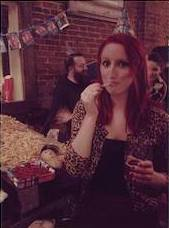
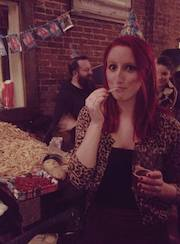
fixed floating text and emily's photo

diff --git a/css/custom.css b/css/custom.css
@@ -66,10 +66,11 @@ h3.project-name {
 }
 
 .member-photo {
-  float: left;
-  margin: 0 20px 10px 0;
+  margin: 0 auto 10px auto;
   padding: 10px;
   background-color: white;
+	width: 200px;
+	text-align: center;
 }
 
 .modal-title {
